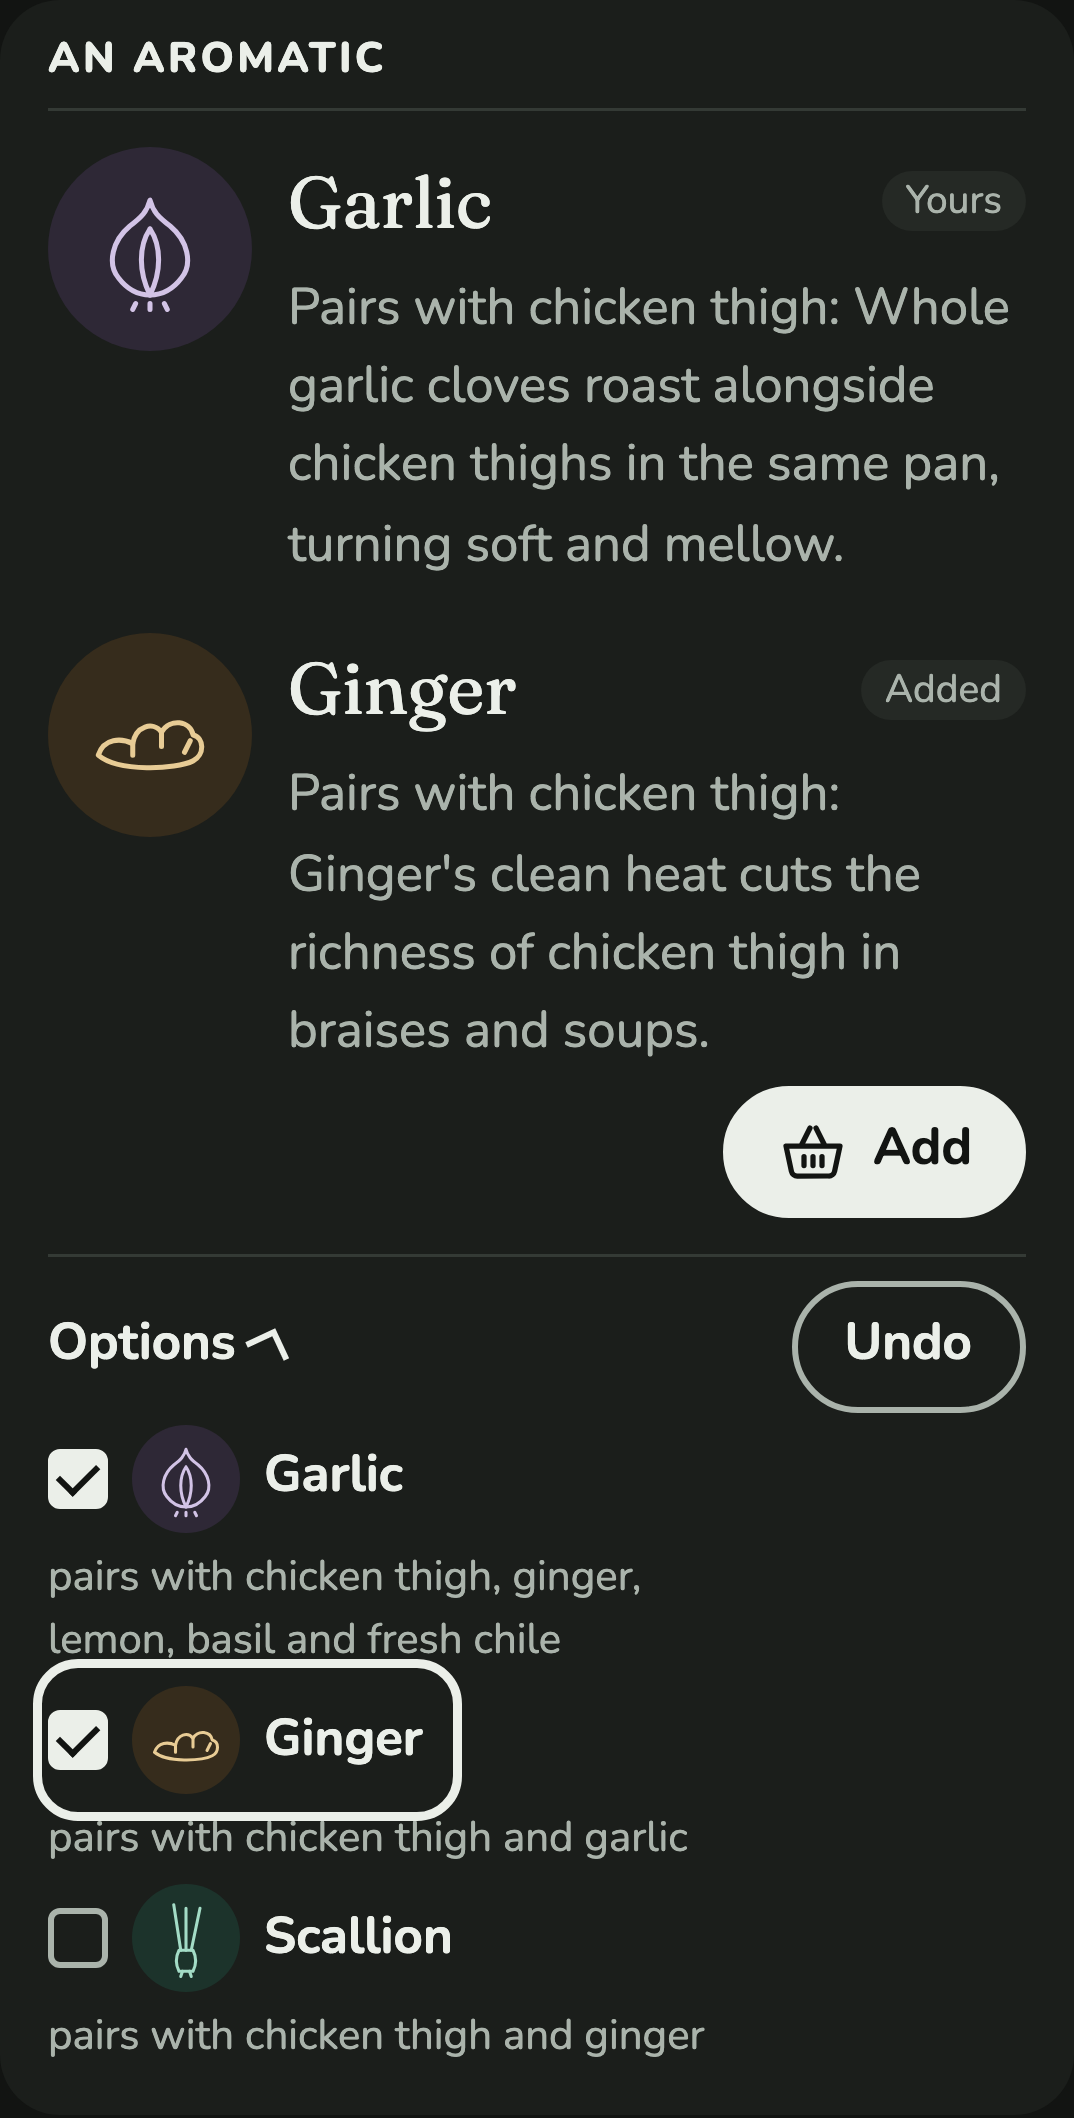
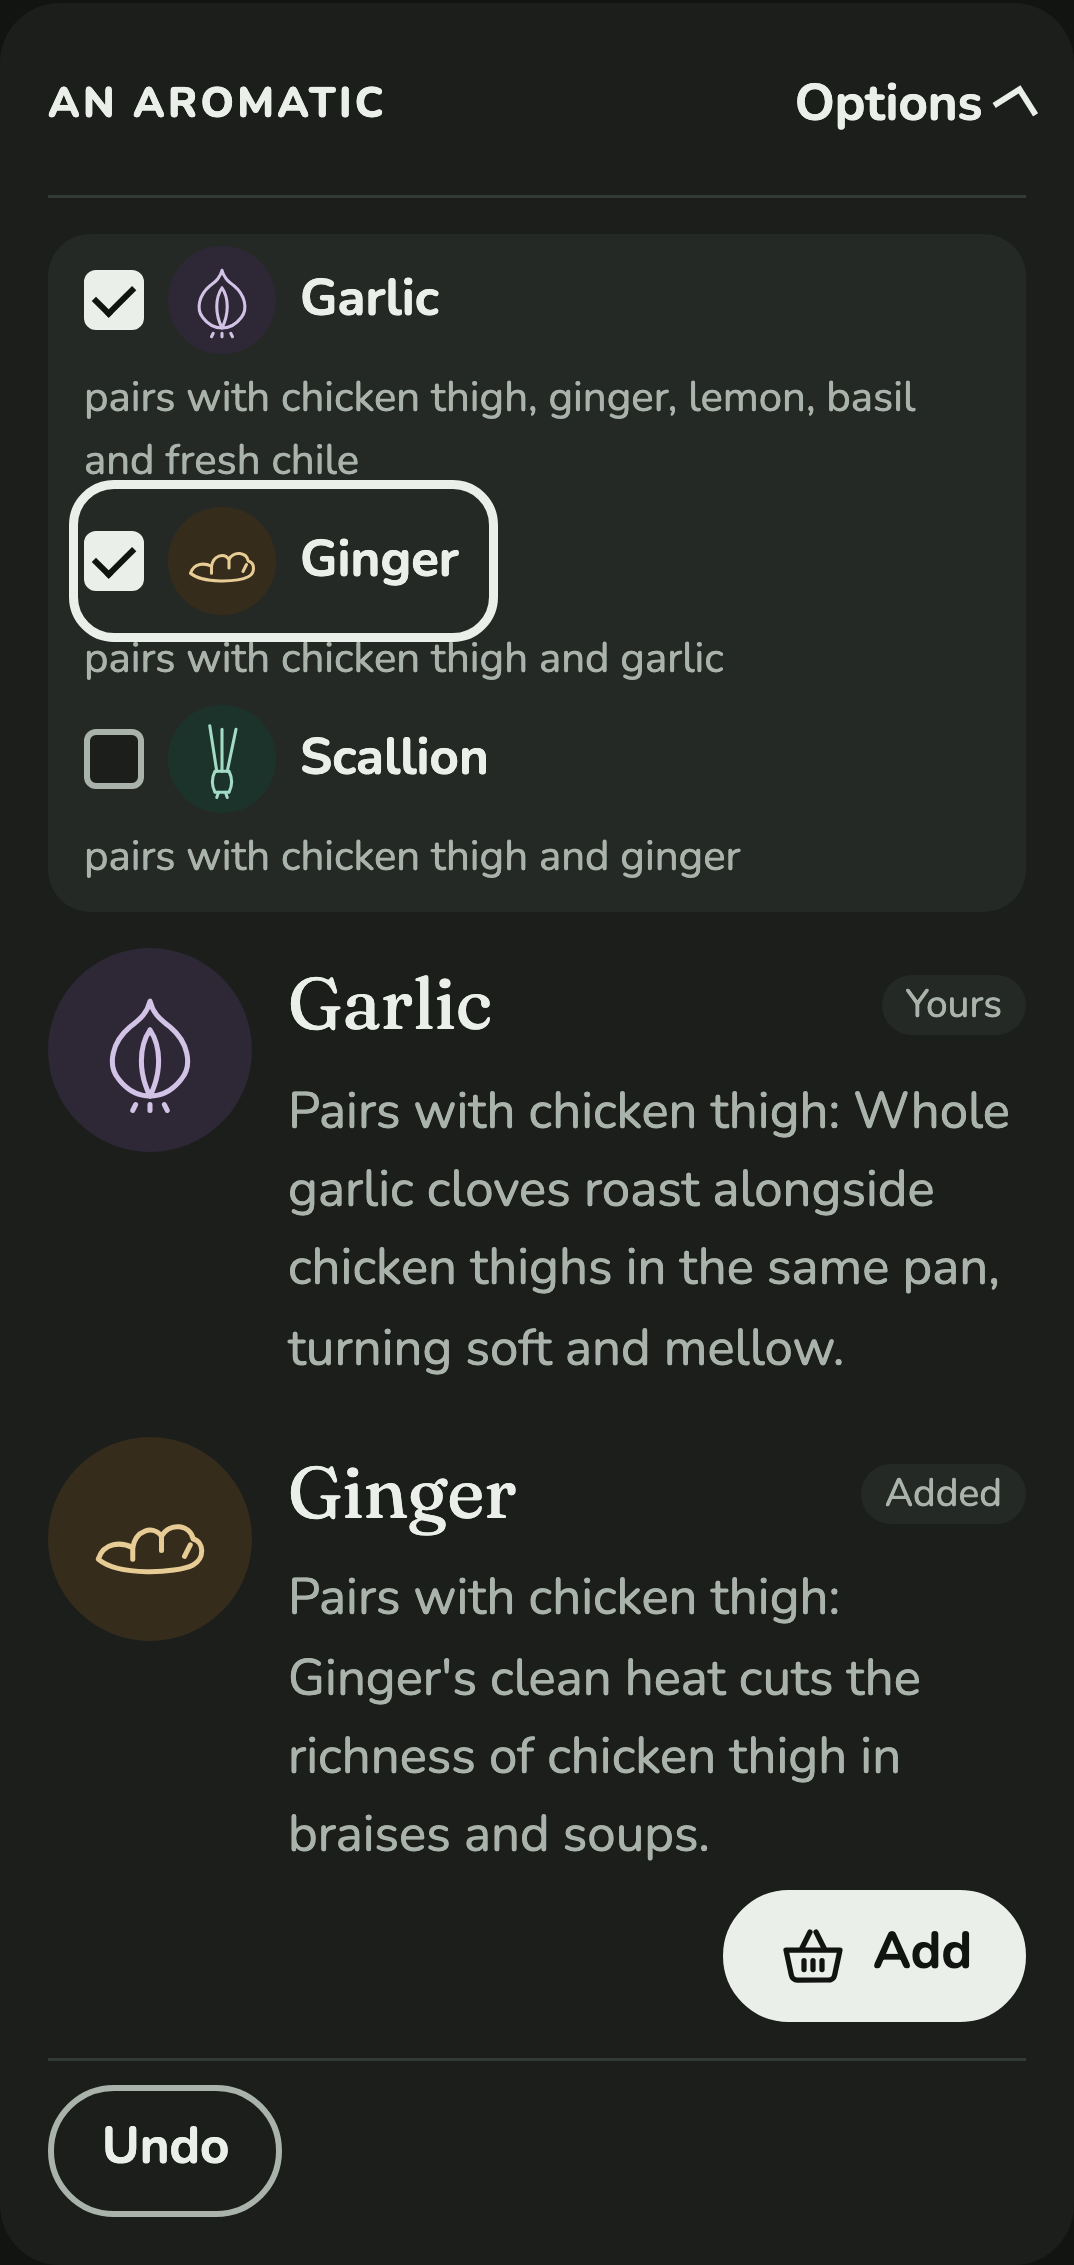
Options sit in a part's top row and open above its Ingredients (#13)

diff --git a/src/app/formulas/[id]/formula-fill.tsx b/src/app/formulas/[id]/formula-fill.tsx
@@ -3,7 +3,7 @@
 import { useEffect, useId, useRef, useState } from "react";
 import { BasketIcon } from "@/components/BasketIcon";
 import { Button } from "@/components/Button";
-import { Disclosure } from "@/components/Disclosure";
+import { DisclosureToggle } from "@/components/Disclosure";
 import { EmptyMark } from "@/components/EmptyMark";
 import { IngredientMark } from "@/components/IngredientMark";
 import { Readiness } from "@/components/Readiness";
@@ -223,9 +223,9 @@ function Checklist({ filled, actions }: { filled: FilledSlot; actions: PartActio
 }
 
 /**
- * One part of the dish: its role as a label across the top, then each Ingredient in it, with why it's
- * there and Add to the basket; then Options, to tick what's in it, and Undo after the Cook's latest
- * change here.
+ * One part of the dish: its role as a label across the top, with Options at the end to tick what's in
+ * it, opening just below; then each Ingredient in it, with why it's there and Add to the basket; then
+ * Undo after the Cook's latest change here.
  */
 function PartCard({
   filled,
@@ -240,6 +240,8 @@ function PartCard({
   undoRef?: React.Ref<HTMLButtonElement>;
 }) {
   const { slot, fills, choices, emptyReason } = filled;
+  const [open, setOpen] = useState(false);
+  const optionsId = useId();
   return (
     <>
       <div className="part-head">
@@ -251,7 +253,21 @@ function PartCard({
             <span className="tag">Optional</span>
           </p>
         )}
+        {choices.length > 0 && (
+          <DisclosureToggle
+            summary="Options"
+            hiddenSummary={`for ${slot.role}`}
+            open={open}
+            controls={optionsId}
+            onToggle={() => setOpen(!open)}
+          />
+        )}
       </div>
+      {choices.length > 0 && (
+        <div id={optionsId} className="part-options" hidden={!open}>
+          <Checklist filled={filled} actions={actions} />
+        </div>
+      )}
       {fills.length === 0 ? (
         <div className="part-fill">
           <EmptyMark size="md" />
@@ -286,18 +302,11 @@ function PartCard({
           ))}
         </ul>
       )}
-      {(choices.length > 0 || undoRef) && (
+      {undoRef && (
         <div className="part-foot">
-          {choices.length > 0 && (
-            <Disclosure summary="Options" hiddenSummary={`for ${slot.role}`}>
-              <Checklist filled={filled} actions={actions} />
-            </Disclosure>
-          )}
-          {undoRef && (
-            <Button ref={undoRef} onClick={actions.undo}>
-              Undo<span className="visually-hidden"> change to {slot.role}</span>
-            </Button>
-          )}
+          <Button ref={undoRef} onClick={actions.undo}>
+            Undo<span className="visually-hidden"> change to {slot.role}</span>
+          </Button>
         </div>
       )}
     </>

diff --git a/e2e/suggestions.spec.ts b/e2e/suggestions.spec.ts
@@ -247,6 +247,32 @@ test("the basket's Ingredients sit side by side in the side panel too", async ({
   expect(second!.y).toBe(first!.y);
 });
 
+test("a part's Options sit at the end of its top row, and open above what's in it", async ({ page }) => {
+  await page.goto("/formulas/pan-sauce?with=chicken-thigh,garlic");
+  const acid = slotItem(page, "an acid");
+  const options = acid.getByRole("button", { name: "Options for an acid" });
+  await expect(options).toHaveAttribute("aria-expanded", "false");
+  await options.click();
+  await expect(options).toHaveAttribute("aria-expanded", "true");
+
+  const [toggle, role, card, list, fill] = await Promise.all([
+    options.boundingBox(),
+    acid.getByRole("heading", { name: "an acid" }).boundingBox(),
+    acid.boundingBox(),
+    acid.getByRole("group", { name: "Ingredients for an acid" }).boundingBox(),
+    acid.locator(".part-fill").boundingBox(),
+  ]);
+  // Level with the part's name, at the right of the card.
+  expect(Math.abs(toggle!.y + toggle!.height / 2 - (role!.y + role!.height / 2))).toBeLessThan(4);
+  expect(toggle!.x + toggle!.width).toBeGreaterThan(card!.x + card!.width * 0.85);
+  // The list opens between the top row and the Ingredients.
+  expect(list!.y).toBeGreaterThan(toggle!.y + toggle!.height);
+  expect(list!.y + list!.height).toBeLessThanOrEqual(fill!.y);
+
+  await options.click();
+  await expect(acid.getByRole("group", { name: "Ingredients for an acid" })).toBeHidden();
+});
+
 test("a part's Add sits in its Ingredient's bottom corner", async ({ page }) => {
   await page.goto("/formulas/pan-sauce?with=chicken-thigh,garlic");
   const acid = slotItem(page, "an acid");

diff --git a/src/app/globals.css b/src/app/globals.css
@@ -685,7 +685,7 @@ main {
 
 /* What could be in a part, each ticked while it's in it; a row is a full-size target. */
 .checklist {
-  margin: var(--space-2) 0 0;
+  margin: 0;
   padding: 0;
   border: 0;
 }
@@ -784,11 +784,11 @@ main {
   background: var(--surface);
 }
 
+/* The role, then its tags, then Options at the far end. */
 .part-head {
   display: flex;
   flex-wrap: wrap;
   align-items: center;
-  justify-content: space-between;
   gap: var(--space-2);
   padding-bottom: var(--space-2);
   border-bottom: var(--border-hairline) solid var(--line);
@@ -826,7 +826,7 @@ main {
   gap: var(--space-2);
 }
 
-/* Options and Undo, below the part's Ingredients. */
+/* Undo, below the part's Ingredients. */
 .part-foot {
   display: flex;
   flex-wrap: wrap;
@@ -836,8 +836,15 @@ main {
   border-top: var(--border-hairline) solid var(--line);
 }
 
-.part-foot details {
-  flex: 1;
+.part-head > button {
+  margin-inline-start: auto;
+}
+
+/* The Options list, opened between the top row and what's in the part. */
+.part-options {
+  padding: 0 var(--space-3) var(--space-2);
+  border-radius: var(--radius-md);
+  background: var(--sunk);
 }
 
 .part-detail {

diff --git a/src/components/Disclosure.module.css b/src/components/Disclosure.module.css
@@ -1,4 +1,5 @@
-.disclosure summary {
+.disclosure summary,
+.toggle {
   display: inline-flex;
   align-items: center;
   gap: var(--space-1);
@@ -10,7 +11,17 @@
 }
 
 /* The chevron says it opens, so no underline; under the pointer it changes colour, as links do. */
-.disclosure summary:hover {
+.toggle {
+  padding: 0;
+  border: 0;
+  background: none;
+  color: inherit;
+  font: inherit;
+  font-weight: var(--weight-bold);
+}
+
+.disclosure summary:hover,
+.toggle:hover {
   color: var(--link-hover);
 }
 
@@ -18,7 +29,8 @@
   display: none;
 }
 
-.disclosure summary::after {
+.disclosure summary::after,
+.toggle::after {
   content: "";
   width: 0.5em;
   height: 0.5em;
@@ -28,7 +40,8 @@
   transition: transform var(--motion-base) var(--ease-out);
 }
 
-.disclosure[open] summary::after {
+.disclosure[open] summary::after,
+.toggle[aria-expanded="true"]::after {
   transform: rotate(-135deg) translate(-0.15em, 0);
 }
 

diff --git a/src/components/Disclosure.tsx b/src/components/Disclosure.tsx
@@ -20,3 +20,22 @@ export function Disclosure({ summary, hiddenSummary, children }: Props) {
     </details>
   );
 }
+
+/**
+ * A disclosure's toggle on its own, for when what it shows sits elsewhere in the layout: the caller
+ * keeps it open or shut and puts `controls` on the content it shows.
+ */
+export function DisclosureToggle({
+  summary,
+  hiddenSummary,
+  open,
+  controls,
+  onToggle,
+}: Omit<Props, "children"> & { open: boolean; controls: string; onToggle: () => void }) {
+  return (
+    <button type="button" className={styles.toggle} aria-expanded={open} aria-controls={controls} onClick={onToggle}>
+      {summary}
+      {hiddenSummary && <span className="visually-hidden"> {hiddenSummary}</span>}
+    </button>
+  );
+}

diff --git a/docs/journal/0014-recipes.md b/docs/journal/0014-recipes.md
@@ -109,6 +109,7 @@ The role stays the part's heading, so screen readers and focus after a swap work
 **Swap and Add another became one checklist, "Options".** The author saw that the two did much the same thing. They chose a checklist from three options; the others were "add, then remove" and one list with a button for each:
 
 - **Options.** Each part has one "Options", empty or not; it was "Change" (and "Choose" while empty) until the author renamed it. It opens every Ingredient that could be in the part, ticked while it's in it. Ticking one adds it; unticking takes it out. A swap is one of each. Remove and the separate Swap went with it.
+- **Where it sits.** The author then moved Options to the end of the part's top row, level with its role, with the list opening between that row and the Ingredients. A native disclosure opens right under its toggle, so this is a toggle button (`DisclosureToggle`, sharing the disclosure's look) with `aria-expanded`, controlling a panel placed below the row. Undo stays at the foot of the part.
 - **The last one stays.** It can't be unticked, and a note, which the dimmed checkbox points to for screen readers, says "Choose another before taking lemon out." An empty part would read as one nothing pairs into.
 - **Order holds.** The list ranks by pairing with what's outside the part, so ticking moves nothing, and focus stays on the checkbox for the next change. Each choice says what in the dish it pairs with, such as "pairs with chicken thigh and garlic". That hint includes the part's own Ingredients, so a choice that goes with garlic says so, though the rank leaves them out to keep the order still.
 - **Yours stays yours.** Untick a basket Ingredient and tick it again, and it's back as "Yours", so the dish is Ready again and there's no Add to the basket for something already in it. The Spec review caught it reading "Added".
@@ -144,6 +145,7 @@ The role stays the part's heading, so screen readers and focus after a swap work
   - two aromatics from the basket, each with its full amount, and removing one then undoing;
   - ticking aromatics until all are in;
   - a swap as a tick and an untick, then two undos, with focus staying on the checkbox.
+  - Options sits at the end of the top row and opens above what's in the part.
 - **axe** covers the dish page with a recipe (both themes, phone and desktop), and so does the **reflow** check. The **phone tap-target** check passes.
 
 ## VoiceOver pass (for the author)
